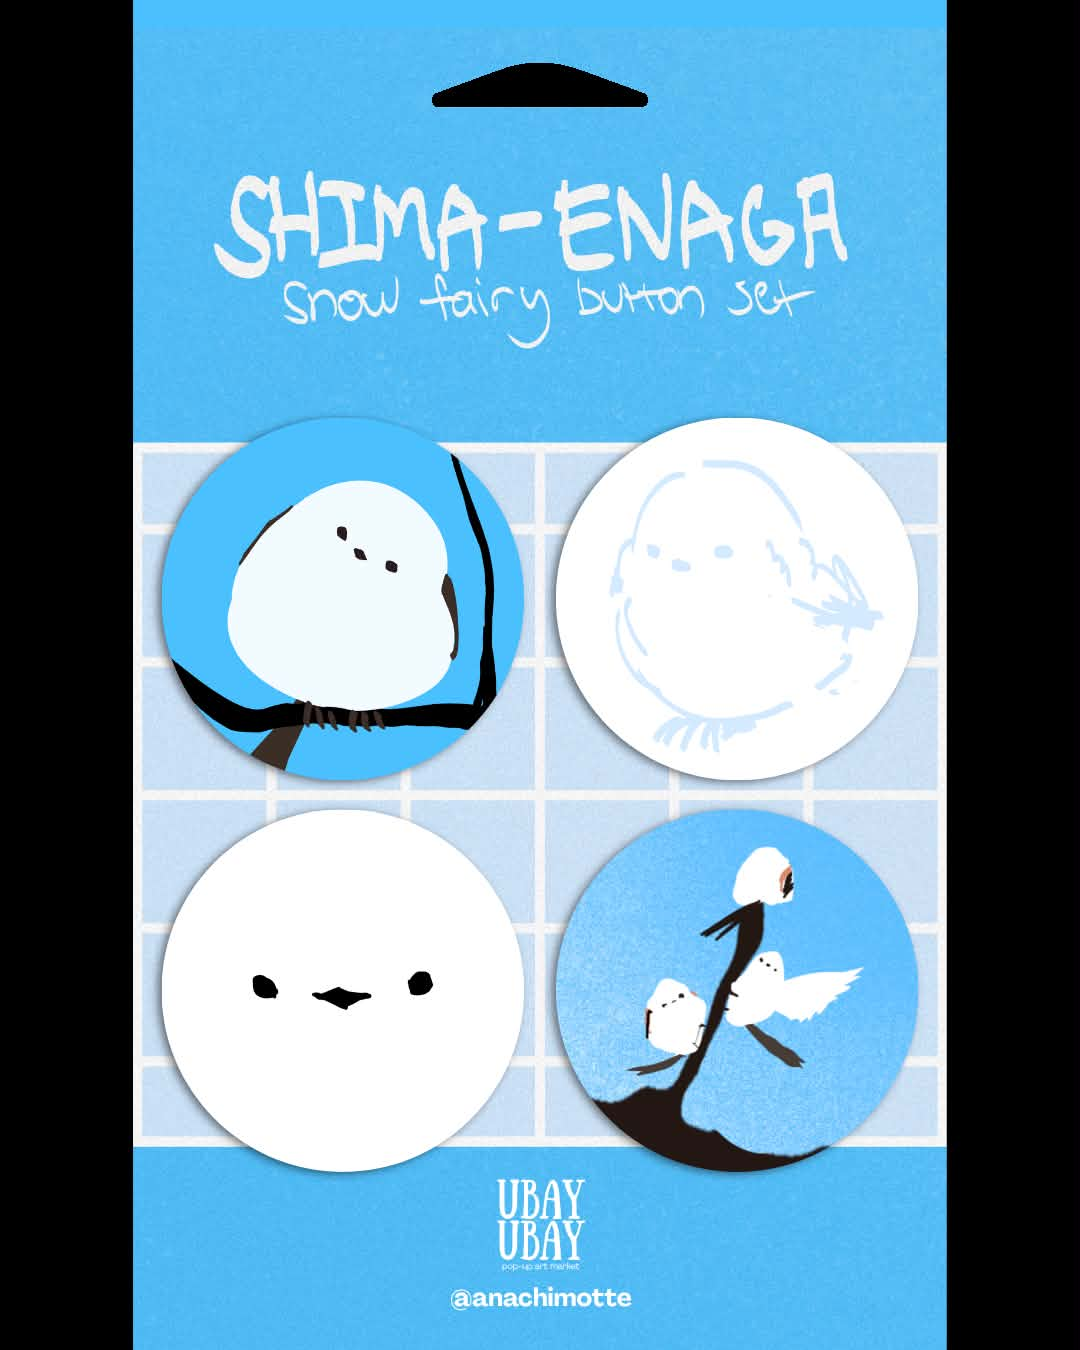
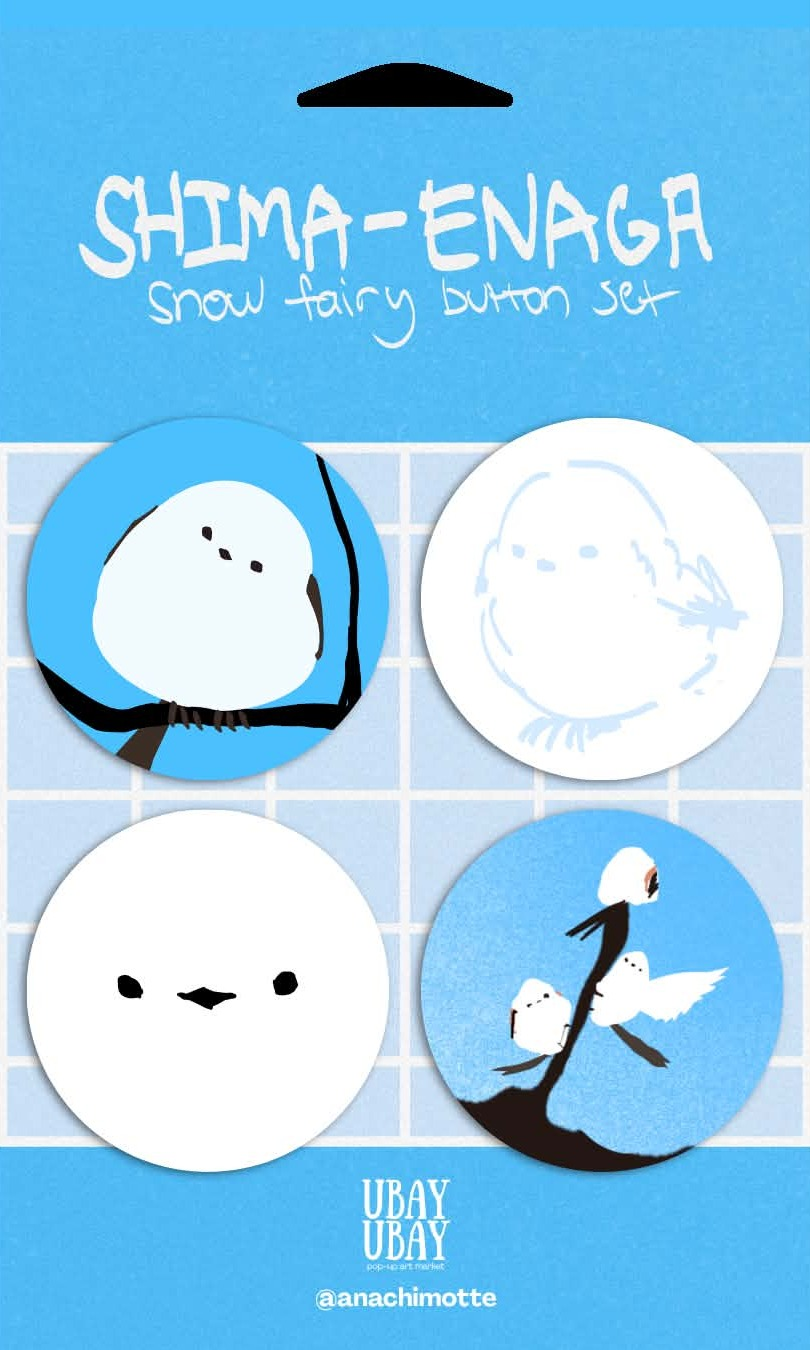
Show the whole Shima-Enaga picture, with the black side bars cropped off

diff --git a/index.html b/index.html
@@ -65,7 +65,7 @@
     <!-- EDIT: Placeholder picture. Swap the src for the real image, update the alt text,
          and delete the <figcaption> line to remove the "Placeholder" label. -->
     <figure class="hero-image">
-      <img src="assets/brand/shima-enaga-placeholder.jpg" width="1080" height="1350" alt="Shima-Enaga snow fairy button set by @anachimotte">
+      <img src="assets/brand/shima-enaga-placeholder.jpg" width="810" height="1350" alt="Shima-Enaga snow fairy button set by @anachimotte">
       <figcaption class="hero-image-label">Placeholder</figcaption>
     </figure>
   </section>

diff --git a/styles.css b/styles.css
@@ -525,6 +525,7 @@ code {
 }
 
 /* The picture under the arrow, with a "Placeholder" label on top for now.
+   It shows whole, never cropped, at its own shape.
    It sits right on top of the navy section, so its bottom corners are square. */
 .hero-image {
   position: relative;
@@ -537,8 +538,6 @@ code {
   display: block;
   width: 100%;
   height: auto;
-  aspect-ratio: 4 / 3;
-  object-fit: cover;
   border-radius: var(--radius-panel) var(--radius-panel) 0 0;
 }
 
